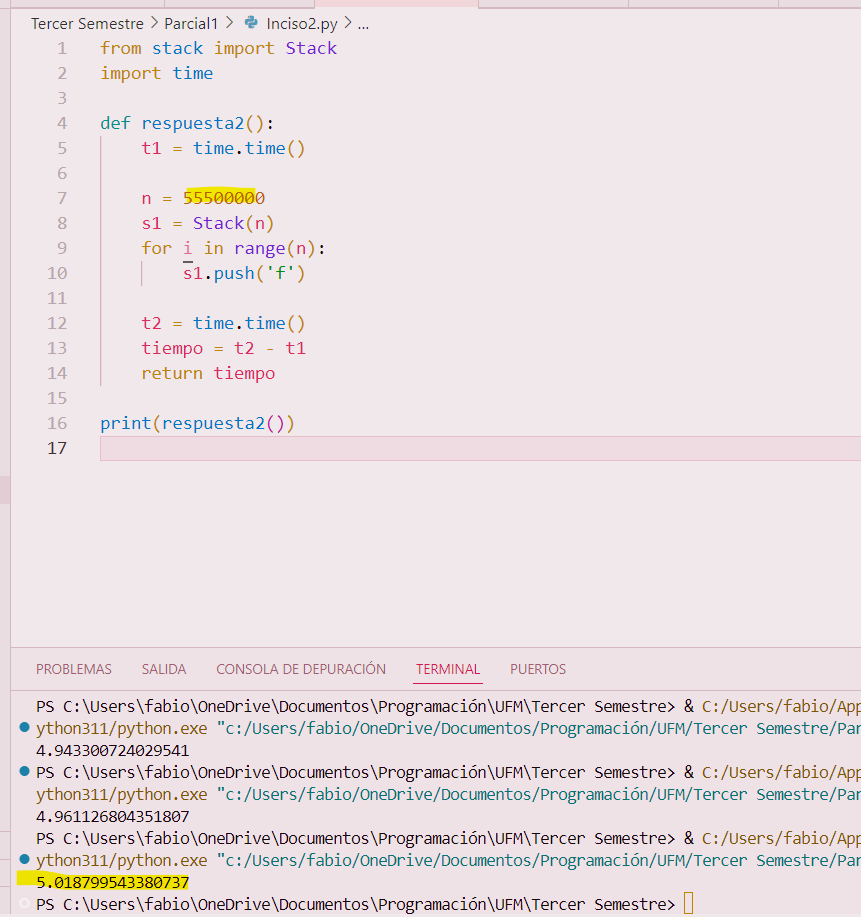
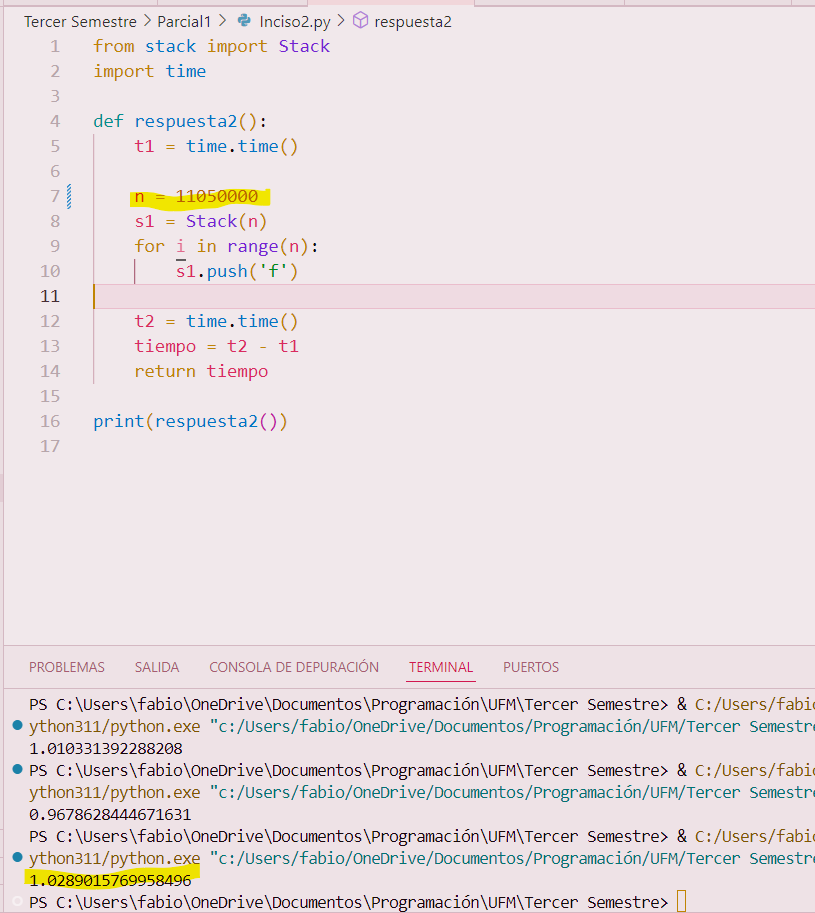
Arreglo de n a 1s

diff --git a/Inciso5.py b/Inciso5.py
@@ -1,11 +1,11 @@
 from stack import Stack
 
 def respuesta5_search():
-    n = 55500000
-    n2 = 55500000 * 2
-    n3 = 55500000 * 3
-    n4 = 55500000 * 4
-    n5 = 55500000 * 5
+    n = 11050000
+    n2 = 11050000 * 2
+    n3 = 11050000 * 3
+    n4 = 11050000 * 4
+    n5 = 11050000 * 5
     
     s1 = Stack(n)
     for i in range(n):
@@ -34,11 +34,11 @@ def respuesta5_search():
     s5.search('g')
 
 def respuesta5_delete():
-    n = 55500000
-    n2 = 55500000 * 2
-    n3 = 55500000 * 3
-    n4 = 55500000 * 4
-    n5 = 55500000 * 5
+    n = 11050000
+    n2 = 11050000 * 2
+    n3 = 11050000 * 3
+    n4 = 11050000 * 4
+    n5 = 11050000 * 5
     
     s1 = Stack(n)
     for i in range(n):
@@ -65,3 +65,5 @@ def respuesta5_delete():
     s3.pop()
     s4.pop()
     s5.pop()
+
+respuesta5_search()

diff --git a/Inciso3.py b/Inciso3.py
@@ -1,11 +1,11 @@
 from stack import Stack
 
 def respuesta3():
-    n = 55500000
-    n2 = 55500000 * 2
-    n3 = 55500000 * 3
-    n4 = 55500000 * 4
-    n5 = 55500000 * 5
+    n = 11050000
+    n2 = 11050000 * 2
+    n3 = 11050000 * 3
+    n4 = 11050000 * 4
+    n5 = 11050000 * 5
     
     s1 = Stack(n)
     for i in range(n):

diff --git a/Inciso2.py b/Inciso2.py
@@ -4,7 +4,7 @@ import time
 def respuesta2():
     t1 = time.time()
 
-    n = 55500000
+    n = 11050000
     s1 = Stack(n)
     for i in range(n):
         s1.push('f')
